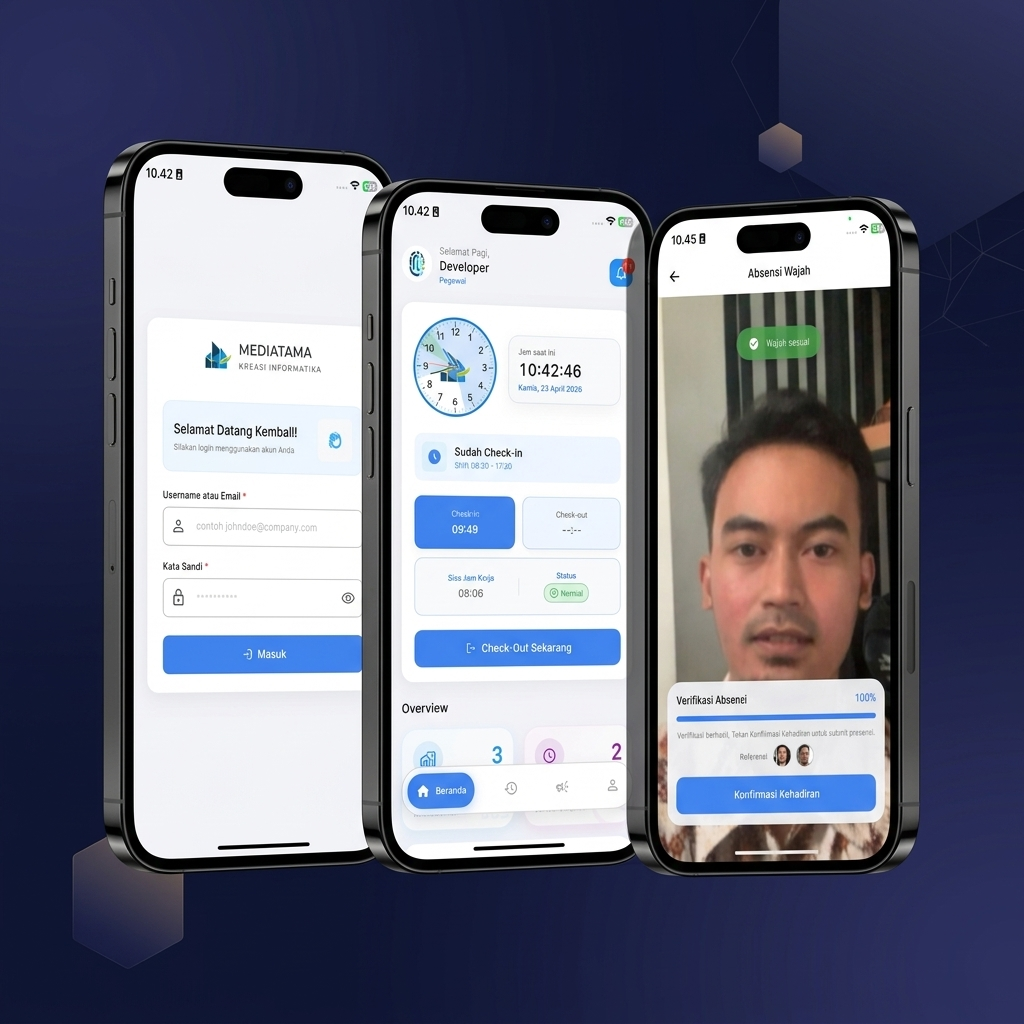
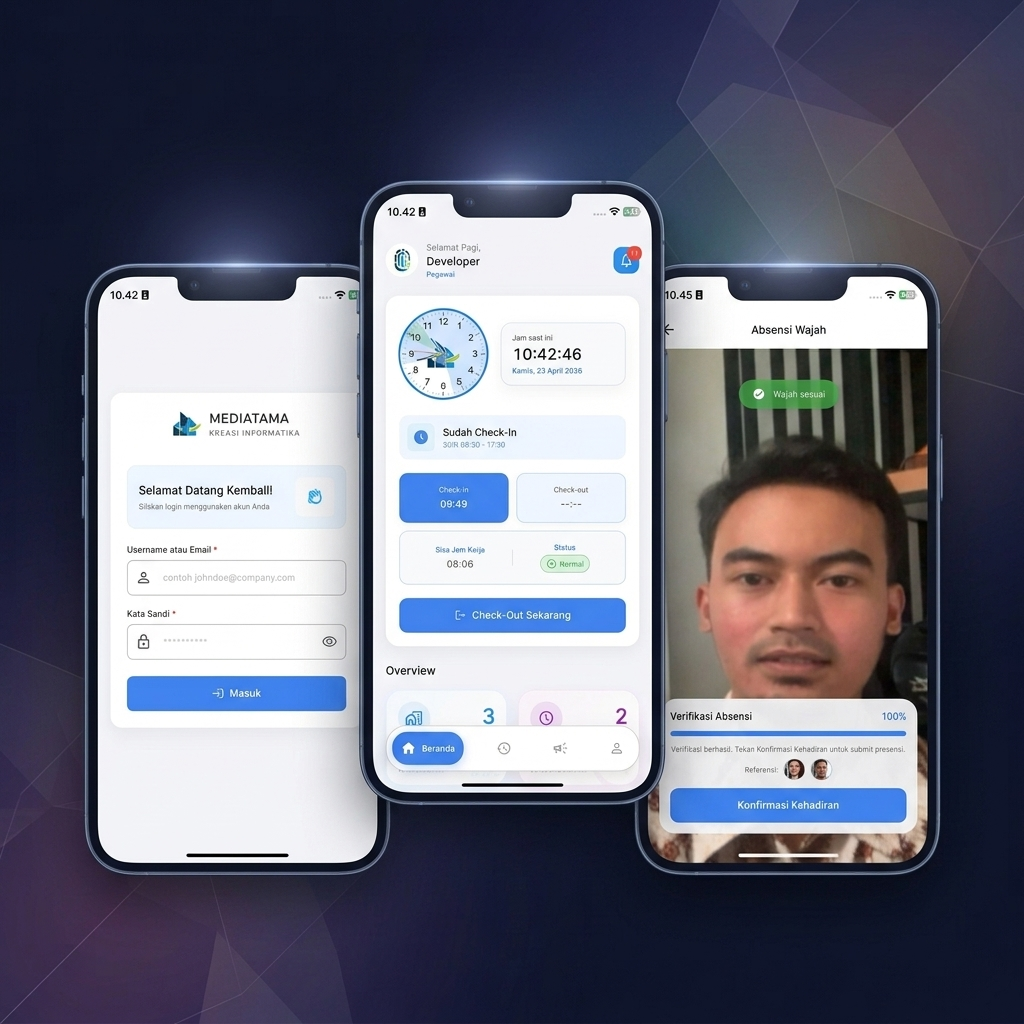
feat: add and update project portfolio thumbnails in assets and data configuration

diff --git a/data.js b/data.js
@@ -253,7 +253,7 @@ const PORTFOLIO_DATA = {
     {
       title: "Digiproc (BPD Bali)",
       category: "Web",
-      thumb: "assets/images/digiproc.png",
+      thumb: "assets/images/poster_digiproc.png",
       description: "Digital procurement system. Frontend: HTML/CSS; Backend: CodeIgniter 3; DB: MySQL.",
       tech: ["HTML/CSS", "CodeIgniter 3", "MySQL"],
       links: { demo: "#", github: "#" },
@@ -278,7 +278,7 @@ const PORTFOLIO_DATA = {
     {
       title: "WFM (Work Force Management)",
       category: "Mobile",
-      thumb: "assets/images/wfm.png",
+      thumb: "assets/images/poster_wfm.png",
       description: "Field operations tool: realtime location tracking, Google Maps (custom markers, polylines, geofencing, distance calc), offline caching.",
       tech: ["Flutter", "Maps", "Realtime", "Offline"],
       links: { demo: "#", github: "#" },
@@ -290,7 +290,7 @@ const PORTFOLIO_DATA = {
     {
       title: "KlikGazz",
       category: "Mobile",
-      thumb: "assets/images/klikgazz.png",
+      thumb: "assets/images/poster_klikgazz.png",
       description: "Gas delivery service app (Customer in Kotlin, Driver in Java). Maps place picker & geocoding, Xendit QRIS payments, FCM notifications, MVP architecture.",
       tech: ["Kotlin", "Java", "Maps", "Xendit", "FCM", "MVP"],
       links: { demo: "#", github: "#" },
@@ -302,7 +302,7 @@ const PORTFOLIO_DATA = {
     {
       title: "ABDNT (AR Education)",
       category: "Mobile",
-      thumb: "assets/images/abdnt.png",
+      thumb: "assets/images/poster_abdnt.png",
       description: "Native Android app (Kotlin, MVVM) with Sceneform SDK for AR to visualize 3D models in real environments.",
       tech: ["Kotlin", "MVVM", "AR", "Sceneform"],
       links: { demo: "#", github: "#" },
@@ -314,7 +314,7 @@ const PORTFOLIO_DATA = {
     {
       title: "Cakep (Cari Kerja Pariwisata)",
       category: "Mobile",
-      thumb: "assets/images/cakep.png",
+      thumb: "assets/images/poster_cakep.png",
       description: "Mobile + API Developer. App in Kotlin; API using CodeIgniter 3.",
       tech: ["Kotlin", "CodeIgniter 3", "API"],
       links: { demo: "#", github: "#" },